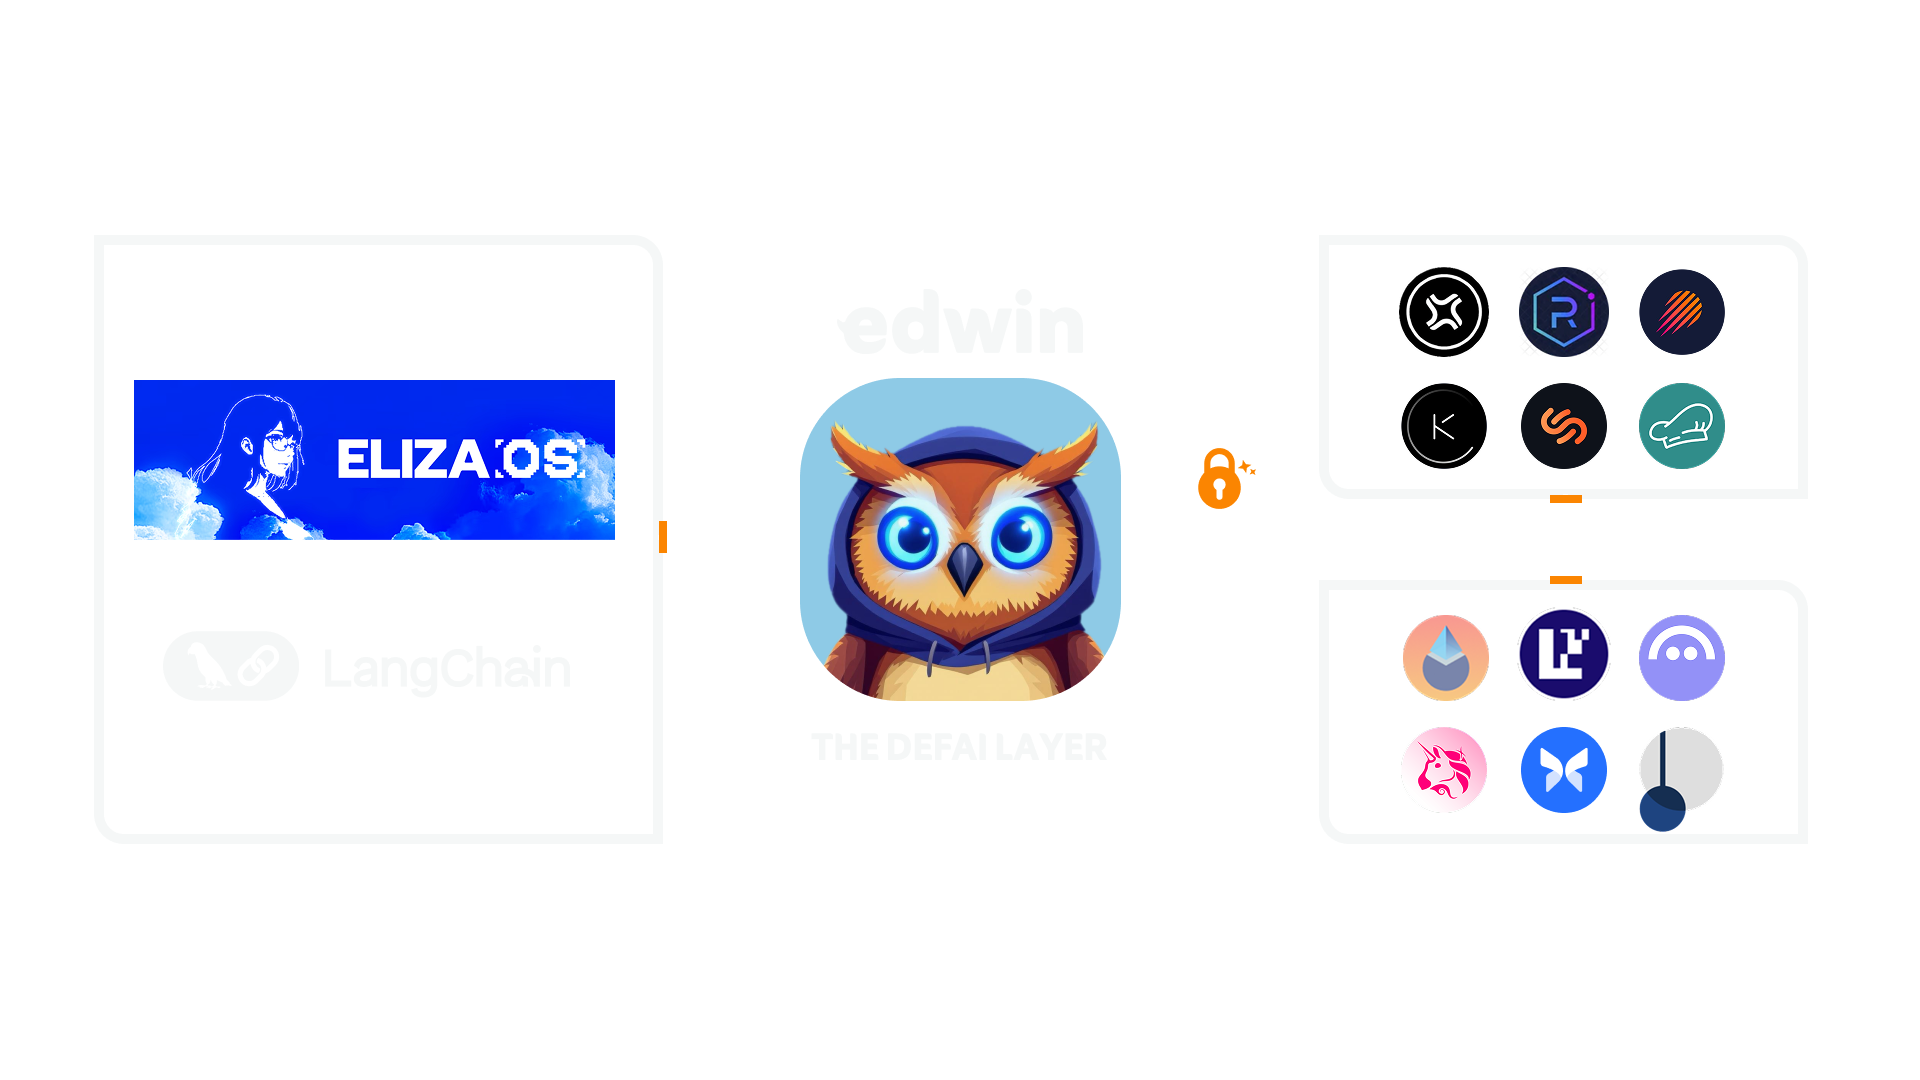
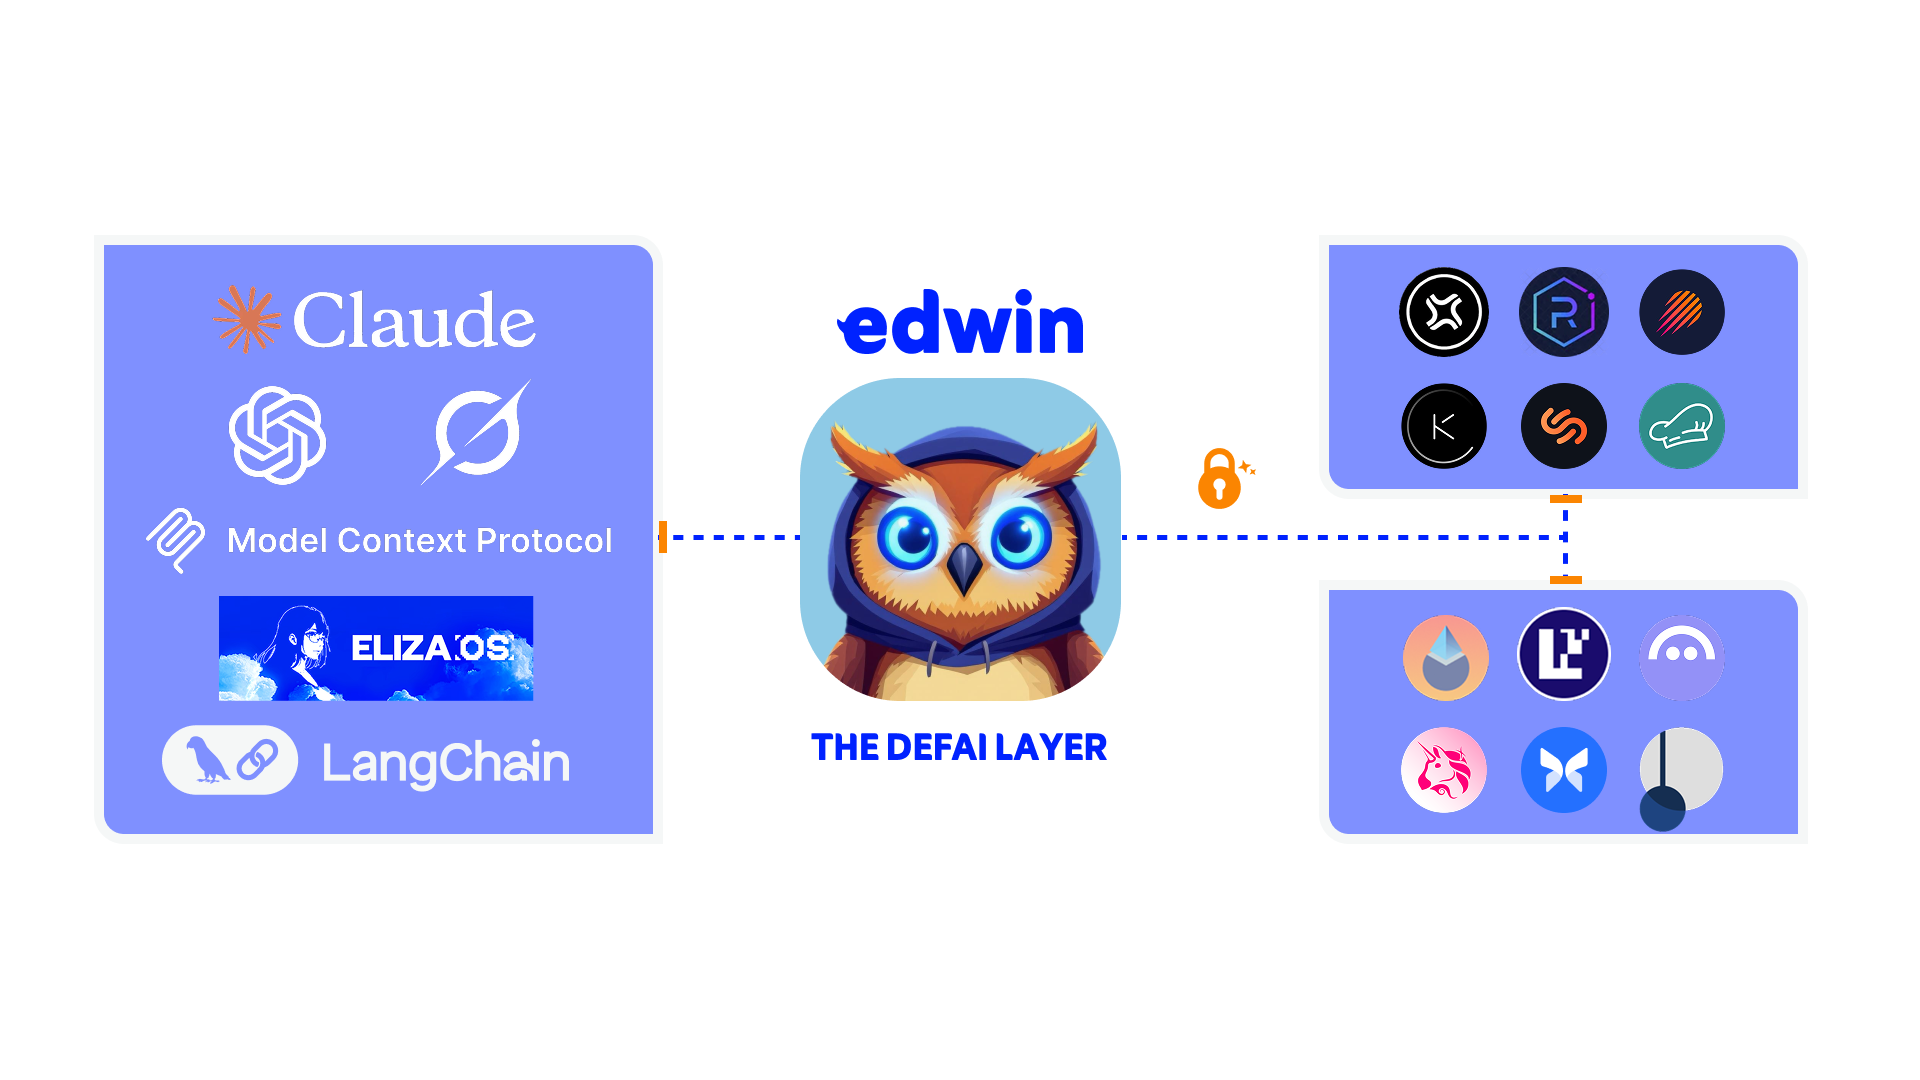
updated homepage and tokenomics (#8)

diff --git a/README.md b/README.md
@@ -17,53 +17,61 @@ layout:
 
 ## The Missing Bridge in DeFAI
 
-The world of finance is experiencing two parallel revolutions. AI frameworks like [LangChain](https://github.com/langchain-ai/langchain), [Eliza](https://github.com/elizaos/eliza), and [G.A.M.E](https://github.com/game-by-virtuals/game-python/tree/main) have transformed software development, creating autonomous agents that reason and execute complex tasks. Simultaneously, DeFi protocols like [Aave](https://aave.com/), [Uniswap](https://uniswap.org/), and [Morpho](https://morpho.xyz/) have built an open, programmable financial system managing billions in assets. Yet a critical gap exists - AI frameworks excel at decision-making but lack native DeFi capabilities, while DeFi protocols remain isolated from AI systems. Each protocol speaks its own language, uses unique interfaces, and requires specialized knowledge to integrate, creating a barrier between these two revolutionary technologies.
+The world of finance is experiencing two parallel revolutions. AI assistants like ChatGPT, Claude, and Siri have transformed how we interact with technology, enabling natural language conversations to complete complex tasks. Simultaneously, DeFi protocols like [Aave](https://aave.com/), [Uniswap](https://uniswap.org/), and [Morpho](https://morpho.xyz/) have built an open, programmable financial system managing billions in assets. Yet a critical gap exists - AI assistants excel at understanding user intent but lack native DeFi capabilities, while DeFi protocols remain isolated behind complex interfaces requiring specialized knowledge, creating a barrier for mainstream adoption.
 
 #### What is edwin?
 
-edwin enables AI agents built on top of AI frameworks to interact with DeFi protocols seamlessly. By providing a universal interface and handling blockchain operations securely, **edwin serves as the infrastructure layer that bridges the gap between AI and DeFi, unlocking the potential of autonomous financial agents - DeFAI.**
+edwin connects your favorite AI assistants directly to DeFi protocols. By providing a secure bridge and handling blockchain operations invisibly, **edwin allows ChatGPT, Claude, Siri, and other AI interfaces to manage your investments, giving you early access to tomorrow's trading interface.**
 
-<figure><img src=".gitbook/assets/Presentation 2 transparent.png" alt=""><figcaption></figcaption></figure>
+<figure><a href="https://www.youtube.com/watch?v=W5fUDW6hF6M"><img src="https://img.youtube.com/vi/W5fUDW6hF6M/0.jpg" alt="edwin demo video"><figcaption>Watch a 30-second demo of edwin in action</figcaption></a></figure>
 
 ### Architecture
 
-edwin consists of several core components that work together to enable DeFAI agents:
+edwin consists of several core components that work together to enable AI assistants to interact with DeFi:
 
 #### Core Components
 
-* **Protocol Abstraction Layer**: Unified interface for DeFi operations
-* **Framework Adapters**: Integration with AI frameworks
-* **Security Layer**: Transaction verification and execution
+* **Model Context Protocol (MCP)**: Securely translates AI assistant instructions into on-chain actions
+* **Edwin Cloud**: Managed infrastructure for seamless AI-to-DeFi connections
+* **Security Layer**: Transaction verification, simulation, and policy enforcement
+
+<figure><img src=".gitbook/assets/Presentation 2 transparent.png" alt="Edwin Architecture"><figcaption>How edwin connects AI assistants to DeFi protocols</figcaption></figure>
 
 #### Current Integrations
 
-AI Frameworks:
+AI Platforms:
 
-* Eliza
+* ChatGPT
+* Claude
+* ElizaOS
 * LangChain
 
 Blockchains:
 
 * Solana
-* EVM
+* EVM (Ethereum, Arbitrum, Base, BNBChain, and more)
 
 DeFi Protocols:
 
-* Lending: Aave
+* Lending: Aave, Compound, Malda
 * DEX: Meteora, Uniswap
 * DEX Aggregator: Jupiter
 
 Data Providers:
 
+* DEXScreener
 * Cookie
 * eOracle
 
 ### Getting Started
 
+<figure><a href="https://youtu.be/bWwZiahYJJA"><img src="https://img.youtube.com/vi/bWwZiahYJJA/0.jpg" alt="setup video"><figcaption>Watch our 2-minute setup guide</figcaption></a></figure>
+
 ### Key Features
 
 #### DeFi Operations
 
+* Swapping tokens with natural language
 * Lending and borrowing
 * Liquidity provision
 * Perpetual trading
@@ -71,34 +79,49 @@ Data Providers:
 * Yield farming
 * CDP management
 * Portfolio management
+* Cross-chain bridging
+* Auto-rebalancing strategies
 
-#### Developer Tools
+#### Security Options
 
-* Transaction simulation
+* Self-custody with WalletConnect support
+* Managed wallet with customizable limits
+* Transaction simulation before execution
 * Position monitoring
 * Risk assessment
 
 ### Use Cases
 
-edwin enables the creation of sophisticated DeFAI agents. Here are just a few examples of what you can build:
+edwin enables everyday users to access DeFi through familiar AI assistants. Here are just a few examples of what you can do:
 
-* **Yield Optimization**: Automate staking and lending strategies across protocols
-* **Liquidity Management**: Deploy and manage pool positions
-* **Portfolio Management**: Handle cross-protocol positions
-* **Arbitrage**: Execute cross-protocol opportunities
-* **Risk Analysis**: Monitor protocol health and assess investment risks
-* **Market Sentiment**: Analyze on-chain data for market trends
-* **Dynamic Rebalancing**: Maintain optimal portfolio allocations based on market conditions
+* **One-sentence swaps**: "Trade half my ETH for ARB and stake the rest."
+* **Passive Income Setup**: "Move my USDC to the highest yielding stable farm under $100 gas."
+* **Portfolio Management**: "Rebalance my positions to 40% ETH, 30% BTC, 30% stables."
+* **Automated Strategies**: "If RSI drops below 40, swap half my USDC to ETH."
+* **Position Monitoring**: "Alert me when my loan-to-value ratio exceeds 65%."
+* **Market Intelligence**: "Compare yield opportunities across Arbitrum and Base."
+* **Gas Optimization**: "Swap ETH for USDC when gas is below 30 gwei."
 
-The possibilities are endless - as DeFAI evolves, new use cases emerge daily.
+The possibilities expand daily as AI assistants become more capable.
 
 ### Popular Links
 
+* [Website](https://edwin.finance/)
 * [GitHub Repository](https://github.com/edwin-finance/edwin)
 * [Discord Community](https://discord.gg/QNA55N3KtF)
 * [Telegram Community](https://t.me/EdwinDeFAI)
 * [Twitter Page](https://x.com/buildwithedwin)
-* [Website](https://edwin.finance/)
+* [$EDWIN Token](https://www.coingecko.com/en/coins/edwin)
+
+### Token Value
+
+The $EDWIN token derives value from:
+* Fee sharing from all transactions processed through Edwin Cloud
+* Revenue-driven buybacks that create sustained demand
+* Governance rights over MCP policy and protocol integrations
+* Priority access to new features and tools
+
+Learn more about our [token model and buyback program](https://docs.edwin.finance/getting-started/tokenomics).
 
 ### Contributing
 
@@ -112,7 +135,7 @@ edwin is an open-source project welcoming contributions from the community:
 
 ### Next Steps
 
-1. Follow the [quickstart.md](getting-started/quickstart.md "mention") Guide
+1. Visit [edwin.finance](https://edwin.finance) to try it with ChatGPT or Claude
 2. Explore our [Documentation](core-concepts/how-edwin-works.md)
 3. Join our [Discord](https://discord.gg/QNA55N3KtF)
-4. Start Building
+4. Learn about the [$EDWIN token benefits](https://docs.edwin.finance/tokenomics)

diff --git a/getting-started/tokenomics.md b/getting-started/tokenomics.md
@@ -4,7 +4,18 @@ icon: coin-front
 
 # Tokenomics
 
-EDWIN powers the governance of edwin DAO and provides access to edwin cloud features.
+EDWIN powers the governance of edwin DAO, provides access to edwin cloud features, and is backed by revenue from all DeFi transactions processed through the platform.
+
+#### Revenue Model & Buybacks
+
+Edwin generates revenue by collecting a small fee on all DeFi transaction volume processed through its infrastructure:
+
+* A portion of all transaction fees is allocated to token buybacks
+* Buybacks occur automatically on a regular schedule
+* Purchased tokens are either burned or redistributed to stakers
+* This mechanism creates consistent buy pressure and rewards long-term holders
+
+This fee-to-buyback model aligns the protocol's growth with token value - as more users access DeFi through AI assistants, more revenue flows to support the $EDWIN token.
 
 #### Governance
 Token holders shape the future of DeFAI integration through the following:
